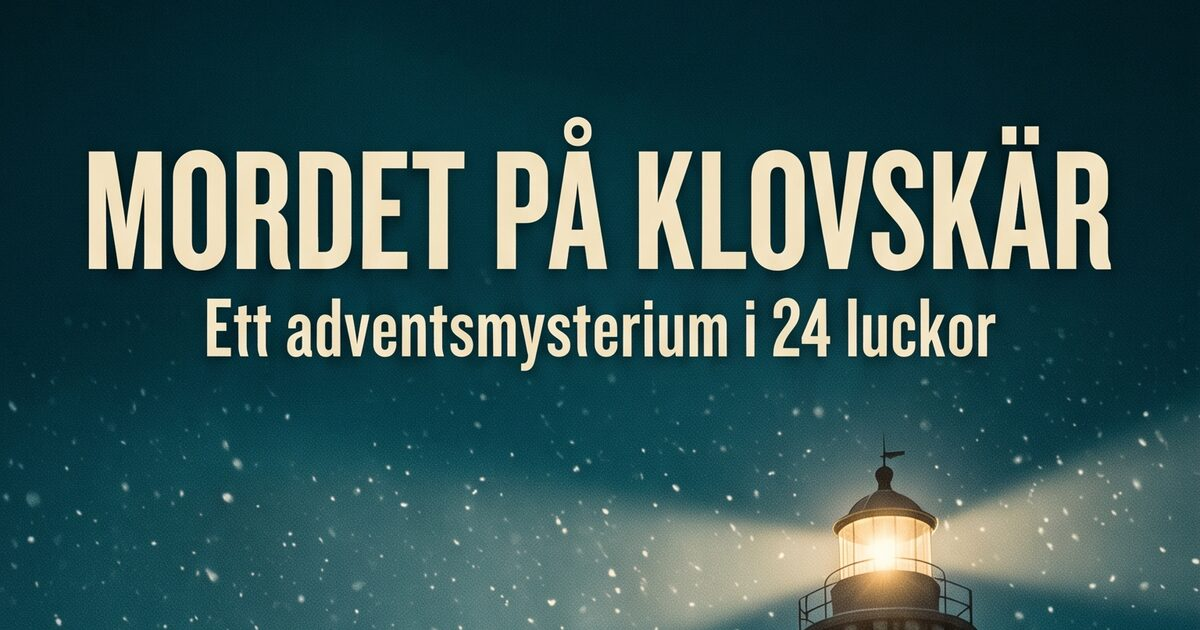
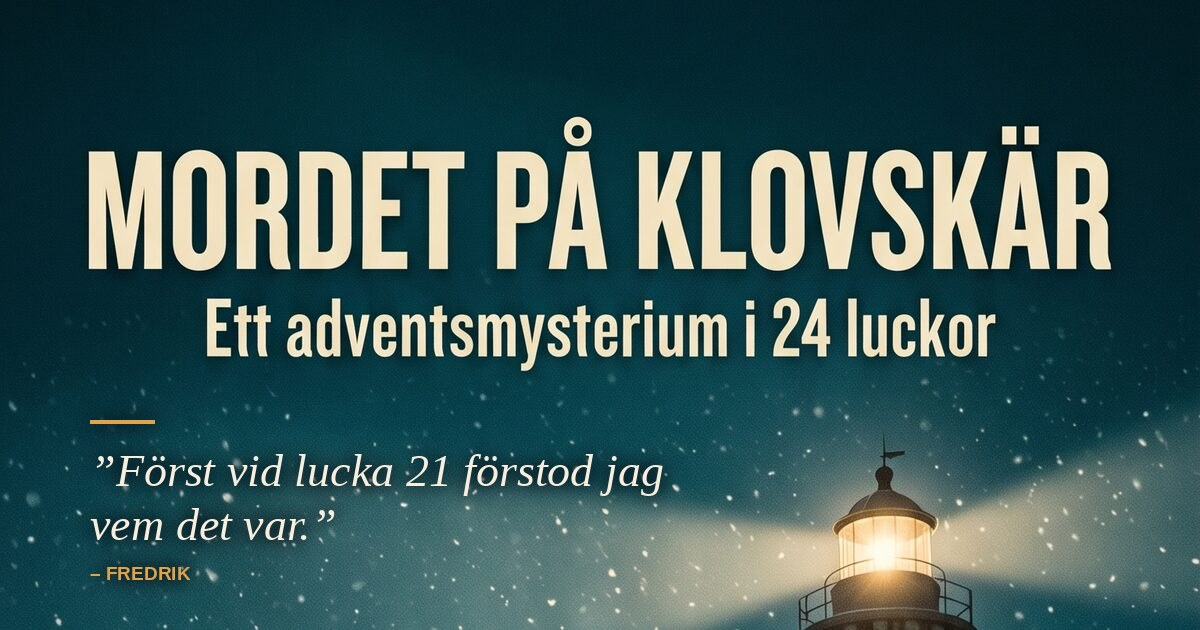
Fredriks omdöme på startsidan, i delningsbilden och (skript) på affischerna

Changed region(s): [[0.0617, 0.7238, 0.555, 0.7841], [0.0617, 0.8143, 0.2775, 0.9349], [0.0617, 0.6635, 0.1233, 0.6937]]

diff --git a/app/globals.css b/app/globals.css
@@ -435,3 +435,6 @@ input:focus, textarea:focus, select:focus { border-color: var(--barnsten); outli
 .uppgift-klocka svg { max-width: 100%; height: auto; filter: drop-shadow(0 10px 20px #0008); }
 .uppgift-tid { margin: 0; font-family: var(--f-m); font-size: 36px; color: var(--barnsten); letter-spacing: .06em; font-variant-numeric: tabular-nums; }
 .slapps-snart { display: inline-flex; align-items: center; padding: 10px 14px; border: 1px dashed var(--barnsten-mork); border-radius: 4px; color: var(--barnsten); font: 14px var(--f-m); letter-spacing: .08em; text-transform: uppercase; }
+.omdome { margin: 12px 0 0; padding-left: 16px; border-left: 3px solid var(--barnsten); display: grid; gap: 4px; max-width: 34ch; }
+.omdome blockquote { margin: 0; font: italic 22px/1.35 var(--f-r); color: var(--fg); text-wrap: balance; }
+.omdome figcaption { font: 13px var(--f-m); letter-spacing: .12em; text-transform: uppercase; color: var(--barnsten); }

diff --git a/app/page.tsx b/app/page.tsx
@@ -55,6 +55,10 @@ export default async function Start() {
             <p className="liten dampad">
               {i ? <>Ni spelar redan som <b>{i.lag.namn}</b>. <Link href="/lag">Till kalendern →</Link></> : <>Har ni redan en kod eller en lagkod? <Link href="/borja">Börja här →</Link></>}
             </p>
+            <figure className="omdome">
+              <blockquote>”Först vid lucka 21 förstod jag vem det var.”</blockquote>
+              <figcaption>– Fredrik</figcaption>
+            </figure>
           </div>
         </section>
 

diff --git a/scripts/citat-pa-affisch.py b/scripts/citat-pa-affisch.py
@@ -1,0 +1,86 @@
+#!/usr/bin/env python3
+"""Lägger Fredriks citat på affischerna och delningsbilden.
+
+Originalen ligger kvar orörda; resultatet sparas som *-citat.jpg (affischer) och
+public/og.jpg (delningsbilden, original i public/og-utan-citat.jpg).
+
+Kör: python3 scripts/citat-pa-affisch.py
+"""
+from pathlib import Path
+from PIL import Image, ImageDraw, ImageFilter, ImageFont
+
+ROT = Path(__file__).resolve().parent.parent / "public"
+SERIF = "/usr/share/fonts/truetype/liberation/LiberationSerif-Italic.ttf"
+SANS = "/usr/share/fonts/truetype/liberation/LiberationSans-Bold.ttf"
+CITAT = "”Först vid lucka 21 förstod jag vem det var.”"
+# Handbrutna rader för smala ytor – så att inget ord hamnar ensamt
+CITAT_SMAL = ["”Först vid lucka 21", "förstod jag", "vem det var.”"]
+AVSANDARE = "– FREDRIK"
+GULD = (226, 162, 74)
+PAPPER = (246, 238, 222)
+
+
+def radbryt(text, font, bredd, rita):
+    rader, rad = [], ""
+    for ord_ in text.split():
+        prov = f"{rad} {ord_}".strip()
+        if rita.textlength(prov, font=font) <= bredd:
+            rad = prov
+        else:
+            rader.append(rad)
+            rad = ord_
+    return rader + [rad]
+
+
+def lagg_citat(bild, x, y, bredd, storlek, centrera=False, rader=None):
+    """Citat med guldstreck ovanför, mjuk skugga så det läses mot snöhimlen."""
+    bild = bild.convert("RGBA")
+    f_citat = ImageFont.truetype(SERIF, storlek)
+    f_namn = ImageFont.truetype(SANS, round(storlek * 0.42))
+    rita = ImageDraw.Draw(bild)
+    rader = rader or radbryt(CITAT, f_citat, bredd, rita)
+    radhojd = round(storlek * 1.18)
+
+    text = Image.new("RGBA", bild.size, (0, 0, 0, 0))
+    t = ImageDraw.Draw(text)
+    streck_y = y
+    streck_b = round(storlek * 1.4)
+    sx = x + (bredd - streck_b) // 2 if centrera else x
+    t.rectangle([sx, streck_y, sx + streck_b, streck_y + max(3, storlek // 18)], fill=GULD + (255,))
+    ty = y + round(storlek * 0.55)
+    for r in rader:
+        rx = x + (bredd - t.textlength(r, font=f_citat)) / 2 if centrera else x
+        t.text((rx, ty), r, font=f_citat, fill=PAPPER + (255,))
+        ty += radhojd
+    ty += round(storlek * 0.2)
+    nx = x + (bredd - t.textlength(AVSANDARE, font=f_namn)) / 2 if centrera else x
+    t.text((nx, ty), AVSANDARE, font=f_namn, fill=GULD + (255,))
+
+    # Skugga: textens alfa, suddad och mörk
+    alfa = text.split()[3]
+    skugga = Image.new("RGBA", bild.size, (5, 12, 20, 0))
+    skugga.putalpha(alfa.filter(ImageFilter.GaussianBlur(storlek / 5)).point(lambda v: min(255, v * 2)))
+    bild = Image.alpha_composite(bild, skugga)
+    bild = Image.alpha_composite(bild, text)
+    return bild.convert("RGB")
+
+
+def main():
+    # Fyrkantig flödesbild 1080×1080: himlen till vänster om fyren, mellan underrubriken och berättelseraden
+    feed = Image.open(ROT / "affisch-feed.jpg")
+    lagg_citat(feed, 70, 230, 560, 52, rader=CITAT_SMAL).save(ROT / "affisch-feed-citat.jpg", quality=90)
+
+    # Story 1080×1920: himlen till vänster om fyren
+    story = Image.open(ROT / "affisch-story.jpg")
+    lagg_citat(story, 80, 420, 560, 72, rader=CITAT_SMAL).save(ROT / "affisch-story-citat.jpg", quality=90)
+
+    # Delningsbilden 1200×630: nere till vänster, bredvid fyrlyktan
+    orig = ROT / "og-utan-citat.jpg"
+    if not orig.exists():
+        (ROT / "og.jpg").rename(orig)
+    og = Image.open(orig)
+    lagg_citat(og, 90, 420, 640, 46).save(ROT / "og.jpg", quality=88)
+
+
+if __name__ == "__main__":
+    main()
